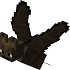
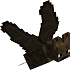
Changed the behavior of the flying bat

diff --git a/StripMiner/StripMiner.cpp b/StripMiner/StripMiner.cpp
@@ -22,6 +22,9 @@ int main()
 	RenderWindow window(vm, "Strip Miner", Style::Default);
 	//Need to figure out how to adapt resolution
 
+	//Seed the randomizer only once
+	srand((int)time(0));
+
 	Texture textureBackground;
 	textureBackground.loadFromFile("graphics/mc_bg.jpg");
 	Sprite spriteBackground;
@@ -55,9 +58,10 @@ int main()
 	textureBat.loadFromFile("graphics/bat.png");
 	Sprite spriteBat;
 	spriteBat.setTexture(textureBat);
-	spriteBat.setPosition(0, 800);
+	spriteBat.setPosition(-100, 0);
 	bool batActive = false;
-	float batSpeed = 0.0f;
+	float batXSpeed = 0.0f;
+	float batYSpeed = 0.0f;
 
 	//Prepare droplet, which can have 1 of 2 textures
 	Texture textureDroplet1;
@@ -341,32 +345,36 @@ int main()
 			if (!batActive)
 			{
 				//How fast is the bat
-				srand((int)time(0));
-				batSpeed = (rand() % 200) + 200;
+				batXSpeed = (rand() % 200) + 200;
+				batYSpeed = (rand() % 100) + 100;
+				float r = (rand() % 2);
+				if (r == 0)
+					batYSpeed = batYSpeed * (-1);
 
 				//How high is the bat
-				float height = (rand() % 500) + 500;
-				spriteBat.setPosition(2000, height);
+				float height = (rand() % 500) + 300;
+				spriteBat.setPosition(-100, height);
 				batActive = true;
 			}
 			else
 				//Move the bat
 			{
 				spriteBat.setPosition(
-					spriteBat.getPosition().x - (batSpeed * dt.asSeconds()),
-					spriteBat.getPosition().y
+					spriteBat.getPosition().x + (batXSpeed * dt.asSeconds()),
+					spriteBat.getPosition().y + (batYSpeed * dt.asSeconds())
 				);
 
-				//Has the bat reached the left edge of the screen?
-				if (spriteBat.getPosition().x < -100)
+				//Has the bat reached an edge of the screen?
+				if (spriteBat.getPosition().x > 2020 
+					|| spriteBat.getPosition().y < -100
+					|| spriteBat.getPosition().y > 1090)
 				{
 					//Set it up ready to be a whole new bat next frame
 					batActive = false;
 				}
 			}
 
-			//Manage the droplets
-			//Cloud 1
+			//Manage the droplet
 			if (!dropletActive)
 			{
 				//Pick a texture
